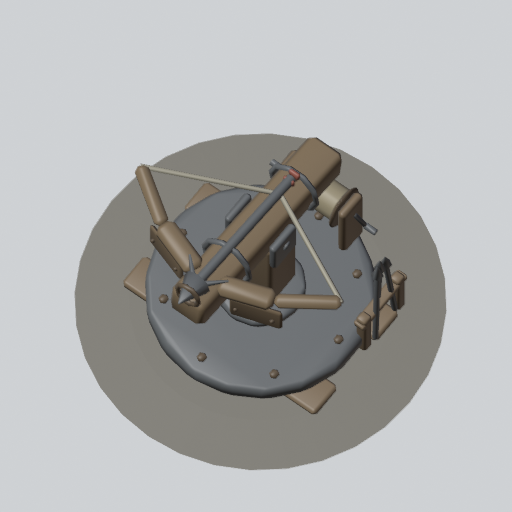
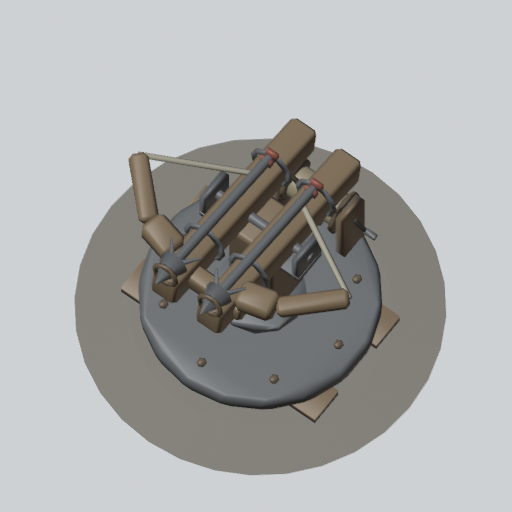
art: Harpoon Ballista (BALLISTA) bolder upgrades - S1 double ballista on a taller post, S2 plated mantlet, brass sighting-arch crown, glowing harpoon heads (#443)

diff --git a/tools/art/models/tower/_ballista.py b/tools/art/models/tower/_ballista.py
@@ -4,10 +4,11 @@ studs; front = -Z (_kit conventions).
 
 Stage 0 (tiers 0-2): plank base, the turntable, the post and yoke, the stock, recurved bow arms
                      and string, the harpoon (muzzle ring at the stock's nose), the winch.
-Stage 1 (tier 3):    steel bands on the stock and arms, the harpoon's line running back to the
-                     winch, a rack of spare harpoons, plank shields on the arms.
-Stage 2 (tier 5):    brass arm caps, bands and a brass sight, a brass-bound harpoon head, a
-                     glowing lantern on a post at the front-left.
+Stage 1 (tier 3):    a DOUBLE BALLISTA - twin stocks side by side on a taller post, two harpoons,
+                     a wider and heavier bow, steel bands, the lines running back to the winch.
+Stage 2 (tier 5):    a big steel-plated mantlet shield across the front with a brass rim, a brass
+                     sighting arch with a ring sight crowning the twin stocks, brass bands and
+                     arm caps, and both harpoon heads glowing.
 """
 
 import importlib.util
@@ -24,91 +25,111 @@ STRING = (205, 190, 150)
 PITCH = math.radians(8)  # the stock tilts up toward the front
 
 
-def on_stock(z, lift=0.0):
-    """A point on the stock's top line at z (the stock pivots at y 1.9, z 0)."""
-    return (0.0, 1.9 + 0.24 + lift - z * math.tan(PITCH), z)
+def on_stock(z, lift=0.0, py=1.9, x=0.0):
+    """A point on the stock's top line at z (the stock pivots at y `py`, z 0)."""
+    return (x, py + 0.24 + lift - z * math.tan(PITCH), z)
 
 
 def build(lp, stage):
     k = K.Kit(lp)
+    py = 1.9 if stage == 0 else 2.15  # the pivot: the upgrades stand taller
+    xs = (0.0,) if stage == 0 else (-0.3, 0.3)  # one stock, or twin stocks
+    lean = stage >= 1
 
     # base: a plank cross, the steel turntable, the post and its yoke
-    k.add("wood", *[K.rbox((0, 0.06, z), (2.6, 0.12, 0.42), bevel=0.04) for z in (-0.55, 0.55)])
-    k.add("metal", K.cyl((0, 0.24, 0), 1.25, 0.24, 18, bevel=0.06),
-          K.cyl((0, 0.42, 0), 0.5, 0.14, 12, bevel=0.04))
+    k.add("wood", *[K.rbox((0, 0.06, z), (2.6, 0.12, 0.42), bevel=0 if lean else 0.04) for z in (-0.55, 0.55)])
+    k.add("metal", K.cyl((0, 0.24, 0), 1.25 if stage == 0 else 1.32, 0.24, 18, bevel=0.06),
+          K.cyl((0, 0.42, 0), 0.5, 0.14, 12, bevel=0 if lean else 0.04))
     k.add("dark", *[K.ell((math.cos(a) * 1.05, 0.37, math.sin(a) * 1.05), (0.06, 0.04, 0.06), 6, 3)
                     for a in [i * math.pi / 4 for i in range(8)]])  # rivets
-    k.add("wood", K.rbox((0, 1.05, 0.1), (0.5, 1.3, 0.5), bevel=0.06))
-    k.add("metal", *[K.rbox((sx * 0.3, 1.78, 0.0), (0.1, 0.45, 0.4), bevel=0.03) for sx in (-1, 1)],
-          K.rod((-0.36, 1.85, 0.0), (0.36, 1.85, 0.0), 0.06, 8))  # yoke + trunnion pin
+    pw = 0.5 if stage == 0 else 0.62
+    k.add("wood", K.rbox((0, 0.4 + (py - 0.6) / 2, 0.1), (pw, py - 0.6, pw), bevel=0.06))
+    yx = 0.3 if stage == 0 else 0.62
+    k.add("metal", *[K.rbox((sx * yx, py - 0.12, 0.0), (0.1, 0.45, 0.4), bevel=0 if lean else 0.03) for sx in (-1, 1)],
+          K.rod((-yx - 0.06, py - 0.05, 0.0), (yx + 0.06, py - 0.05, 0.0), 0.06, 8))  # yoke + trunnion pin
+    if lean:
+        k.add("metal", K.rbox((0, py - 0.3, 0.0), (2 * yx + 0.1, 0.1, 0.4), bevel=0))  # the yoke's cross-plate
 
-    # the stock: a long oak beam, tilted up at the front
-    a, b = (0.0, 1.9 - 1.2 * math.tan(PITCH), 1.2), (0.0, 1.9 + 1.35 * math.tan(PITCH), -1.35)
-    k.add("body", K.bar(a, b, 0.46, 0.4, bevel=0.07))
-    # recurved bow arms out from the stock's front, swept back
-    nose = on_stock(-0.95, -0.05)
+    # the stock(s): long oak beams, tilted up at the front
+    sw = 0.46 if stage == 0 else 0.34
+    for x in xs:
+        a, b = (x, py - 1.2 * math.tan(PITCH), 1.2), (x, py + 1.35 * math.tan(PITCH), -1.35)
+        k.add("body", K.bar(a, b, sw, 0.4, bevel=0.07 if stage == 0 else 0.05))
+    # recurved bow arms out from the stock's front, swept back (wider and heavier on the twin)
+    nose = on_stock(-0.95, -0.05, py)
     arms, tips = [], []
+    span = (1.35, 1.42, 1.33)[stage]
+    th = 1.0 if stage == 0 else 1.35
     for sx in (-1, 1):
-        mid = (sx * 0.75, nose[1] + 0.02, -0.75)
-        tip = (sx * 1.35, nose[1] + 0.06, -0.35)
-        arms += [K.bar((sx * 0.15, nose[1], -0.95), mid, 0.24, 0.18, bevel=0.06),
-                 K.bar(mid, tip, 0.16, 0.13, bevel=0.05)]
+        root = (sx * (0.15 if stage == 0 else 0.42), nose[1], -0.95)
+        mid = (sx * 0.85 if lean else sx * 0.75, nose[1] + 0.02, -0.75 if stage == 0 else -0.85)
+        tip = (sx * span, nose[1] + 0.06, -0.35 if stage == 0 else -0.3)
+        arms += [K.bar(root, mid, 0.24 * th, 0.18 * th, bevel=0.06),
+                 K.bar(mid, tip, 0.16 * th, 0.13 * th, bevel=0.05)]
         tips.append(tip)
+    if lean:  # a crossbeam joining the twin stocks' noses
+        arms.append(K.bar(on_stock(-1.0, -0.25, py, -0.55), on_stock(-1.0, -0.25, py, 0.55), 0.22, 0.26, bevel=0.04, up=(0, 1, 0)))
     k.add("body", *arms)
-    nock = on_stock(0.35, 0.02)
-    k.add("string", *[K.rod(t, nock, 0.03, 6) for t in tips])
-    # the harpoon on the stock's top; the muzzle ring at the stock's nose
-    tail, head = on_stock(0.55, 0.1), on_stock(-1.2, 0.1)
-    k.add("metal", K.rod(tail, head, 0.06, 8))
-    point = (0.0, head[1] + 0.2 * math.tan(PITCH), -1.47)
-    hb = []
-    hb.append(K.rod(K.along(head, point, -0.25), point, 0.17, 8, top=0.05))
-    for sx in (-1, 1):  # barbs
-        hb.append(K.rod((0, head[1], head[2] + 0.02), (sx * 0.26, head[1], head[2] + 0.28), 0.045, 5, top=0.3))
-    k.add("brass" if stage >= 2 else "metal", *hb, piece="harpoonhead")
-    k.add("leather", *[K.rbox((0, tail[1], tail[2] - 0.04 + dz), (0.14, 0.1, 0.06), bevel=0.02) for dz in (0.0, 0.1)])  # fletch vanes
-    k.add("dark", K.ring_along(on_stock(-1.3, 0.05), on_stock(-2.3, 0.05), 0.14, 0.035, 10, 4), piece="muzzle", role="muzzle")
+    strings, heads_ = [], []
+    for x in xs:
+        nock = on_stock(0.35, 0.02, py, x)
+        strings += [K.rod(t, nock, 0.03 if stage == 0 else 0.035, 6) for t in tips] if stage == 0 else \
+            [K.rod((t[0], t[1], t[2]), nock, 0.035, 6) for t in tips if (t[0] > 0) == (x > 0)]
+        # the harpoon on the stock's top
+        tail, head = on_stock(0.55, 0.1, py, x), on_stock(-1.2, 0.1, py, x)
+        k.add("metal", K.rod(tail, head, 0.06, 8))
+        point = (x, head[1] + 0.2 * math.tan(PITCH), -1.47)
+        hb = [K.rod(K.along(head, point, -0.25), point, 0.17, 8, top=0.05)]
+        for sx in (-1, 1):  # barbs
+            hb.append(K.rod((x, head[1], head[2] + 0.02), (x + sx * (0.26 if stage == 0 else 0.2), head[1], head[2] + 0.28), 0.045, 5, top=0.3))
+        heads_ += hb
+        k.add("leather", *[K.rbox((x, tail[1], tail[2] - 0.04 + dz), (0.14, 0.1, 0.06), bevel=0.02 if stage == 0 else 0) for dz in (0.0, 0.1)])
+        if lean:  # the line from the harpoon's tail back to the winch drum
+            k.add("rope", K.rod((x, tail[1] - 0.02, tail[2] + 0.02), (x * 0.5, 1.15, 0.98), 0.03, 6))
+    k.add("string", *strings)
+    if stage >= 2:
+        k.add("glow", *heads_, piece="harpoonhead")  # both heads glow
+    else:
+        k.add("metal", *heads_, piece="harpoonhead")
+    # the muzzle ring(s) at the stock's nose: the piece's centre is the firing point
+    k.add("dark", *[K.ring_along(on_stock(-1.3, 0.05, py, x), on_stock(-2.3, 0.05, py, x), 0.14, 0.035, 10, 4) for x in xs],
+          piece="muzzle", role="muzzle")
 
     # the winch at the back: a drum with rope and two cranks
     wz, wy = 1.05, 1.0
-    k.add("wood", *[K.rbox((sx * 0.42, wy - 0.25, wz), (0.12, 0.9, 0.36), bevel=0.04) for sx in (-1, 1)])
+    k.add("wood", *[K.rbox((sx * 0.42, wy - 0.25, wz), (0.12, 0.9, 0.36), bevel=0.04 if stage == 0 else 0) for sx in (-1, 1)])
     k.add("rope", K.cyl((0, wy, wz), 0.2, 0.62, 12, rot=(0, 0, 90)))
-    k.add("dark", *[K.cyl((sx * 0.33, wy, wz), 0.26, 0.05, 12, rot=(0, 0, 90)) for sx in (-1, 1)])
+    k.add("dark", *[K.cyl((sx * 0.33, wy, wz), 0.26, 0.05, 12, rot=(0, 0, 90), bevel=0.03 if stage == 0 else 0) for sx in (-1, 1)])
     k.add("metal", *[K.rod((sx * 0.48, wy, wz), (sx * 0.56, wy - 0.3, wz + 0.08), 0.03, 6) for sx in (-1, 1)],
           *[K.rod((sx * 0.56, wy - 0.3, wz + 0.08), (sx * 0.7, wy - 0.3, wz + 0.08), 0.04, 6) for sx in (-1, 1)])
 
     brass = []
     if stage >= 1:
-        bands = [K.ring_along(on_stock(z, -0.2), on_stock(z - 1, -0.2), 0.3, 0.04, 10, 4) for z in (-0.6, 0.6)]
-        (brass if stage >= 2 else k.sets.setdefault("metal", [])).extend(bands)
-        # the line from the harpoon's tail back to the winch drum
-        k.add("rope", K.rod((0, tail[1] - 0.02, tail[2] + 0.02), (0, wy + 0.15, wz - 0.05), 0.03, 6))
-        # a rack of spare harpoons at the left
-        rx = -1.2
-        k.add("wood", K.rbox((rx, 0.35, 0.25), (0.14, 0.7, 0.14), bevel=0.03),
-              K.rbox((rx, 0.35, 0.85), (0.14, 0.7, 0.14), bevel=0.03),
-              K.rbox((rx, 0.62, 0.55), (0.14, 0.08, 0.8), bevel=0.02))
-        spares = [K.rod((rx + dx, 0.12, 0.55 + dz), (rx + dx * 0.2, 1.4, 0.55 + dz * 0.4), 0.035, 6) for dx, dz in ((-0.08, -0.2), (0.06, 0.0), (-0.04, 0.2))]
-        k.add("metal", *spares, *[K.rod((rx + dx * 0.2, 1.4, 0.55 + dz * 0.4), (rx + dx * 0.15, 1.6, 0.55 + dz * 0.35), 0.07, 6, top=0.05)
-                                    for dx, dz in ((-0.08, -0.2), (0.06, 0.0), (-0.04, 0.2))])
-        # plank shields on the arms
-        k.add("wood", *[K.rbox((sx * 0.6, nose[1] - 0.25, -0.88), (0.6, 0.38, 0.06), bevel=0.03, rot=(0, -sx * 18, 0)) for sx in (-1, 1)])
-        k.add("dark", *[K.ell((sx * 0.6 + dx, nose[1] - 0.25, -0.92 + sx * dx * 0.3), (0.03, 0.03, 0.03), 4, 3)
-                        for sx in (-1, 1) for dx in (-0.2, 0.2)])
+        trim = brass if stage >= 2 else k.sets.setdefault("metal", [])
+        for x in xs:  # bands round each stock
+            trim.extend(K.ring_along(on_stock(z, -0.2, py, x), on_stock(z - 1, -0.2, py, x), 0.24, 0.04, 10, 3) for z in (-0.6, 0.6))
 
     if stage >= 2:
-        brass += [K.ell(t, (0.12, 0.1, 0.12), 8, 5) for t in tips]  # arm caps
-        brass.append(K.rbox(on_stock(-0.15, 0.22), (0.1, 0.2, 0.08), bevel=0.02))  # sight post
-        brass.append(K.ring_along(on_stock(-0.15, 0.36), on_stock(-1.15, 0.36), 0.07, 0.02, 8, 4))
-        # a lantern on a post at the front-left
-        lx, lz = -1.1, -1.15
-        k.add("wood", K.rod((lx, 0.12, lz), (lx, 1.5, lz), 0.045, 6), K.rod((lx, 1.5, lz), (lx + 0.22, 1.5, lz), 0.03, 6))
-        brass += [K.cyl((lx + 0.22, 1.44, lz), 0.09, 0.05, 8)]
-        k.add("glow", K.ell((lx + 0.22, 1.29, lz), (0.09, 0.12, 0.09), 8, 5))
+        brass += [K.ell(t, (0.15, 0.12, 0.15), 8, 5) for t in tips]  # arm caps
+        # the mantlet: a steel-plated plank shield across the front, brass-rimmed, a slot for the harpoons
+        mz, mh, mw = -1.25, 1.0, 2.6
+        k.add("wood", K.rbox((0, 0.12 + mh / 2, mz), (mw, mh, 0.14), bevel=0, rot=(10, 0, 0)))
+        k.add("metal", *[K.rbox((sx * 0.72, 0.12 + mh / 2, mz - 0.09), (0.9, mh - 0.2, 0.05), bevel=0, rot=(10, 0, 0)) for sx in (-1, 1)])
+        brass.append(K.rbox((0, 0.12 + mh / 2 + 0.53, mz + 0.09), (mw + 0.04, 0.1, 0.22), bevel=0, rot=(10, 0, 0)))  # top rim
+        k.add("dark", *[K.ell((sx * 0.72 + dx, 0.12 + mh / 2 + dy, mz - 0.13 + dy * 0.17), (0.05, 0.05, 0.03), 4, 3)
+                        for sx in (-1, 1) for dx in (-0.3, 0.3) for dy in (-0.25, 0.25)])  # plate rivets
+        # the sighting arch over the twin stocks, a ring sight on top (the crown)
+        az, ay = -0.2, py + 0.25
+        arch = [K.rod((sx * 0.62, py - 0.1, az), (sx * 0.45, ay + 0.75, az), 0.06, 6) for sx in (-1, 1)]
+        arch.append(K.rod((-0.45, ay + 0.75, az), (0.45, ay + 0.75, az), 0.06, 6))
+        arch.append(K.ring_along((0, ay + 1.08, az), (0, ay + 1.08, az - 1), 0.28, 0.06, 14, 4))
+        arch.append(K.rod((0, ay + 0.75, az), (0, ay + 0.8, az), 0.08, 6))
+        brass += arch
+        k.add("glow", K.ell((0, ay + 1.08, az), (0.12, 0.12, 0.05), 8, 4), piece="sight")  # the sight's lens
         k.add("brass", *brass)
 
     colors = {
         "body": OAK, "wood": K.WOOD, "dark": K.DARK, "metal": K.METAL, "string": STRING,
-        "rope": K.ROPE, "leather": (180, 60, 45), "brass": K.BRASS, "glow": K.GLOW,
+        "rope": K.ROPE, "leather": (180, 60, 45), "brass": K.BRASS, "glow": (255, 150, 70),
     }
     return k.model("11d", colors, "BALLISTA", stage)
